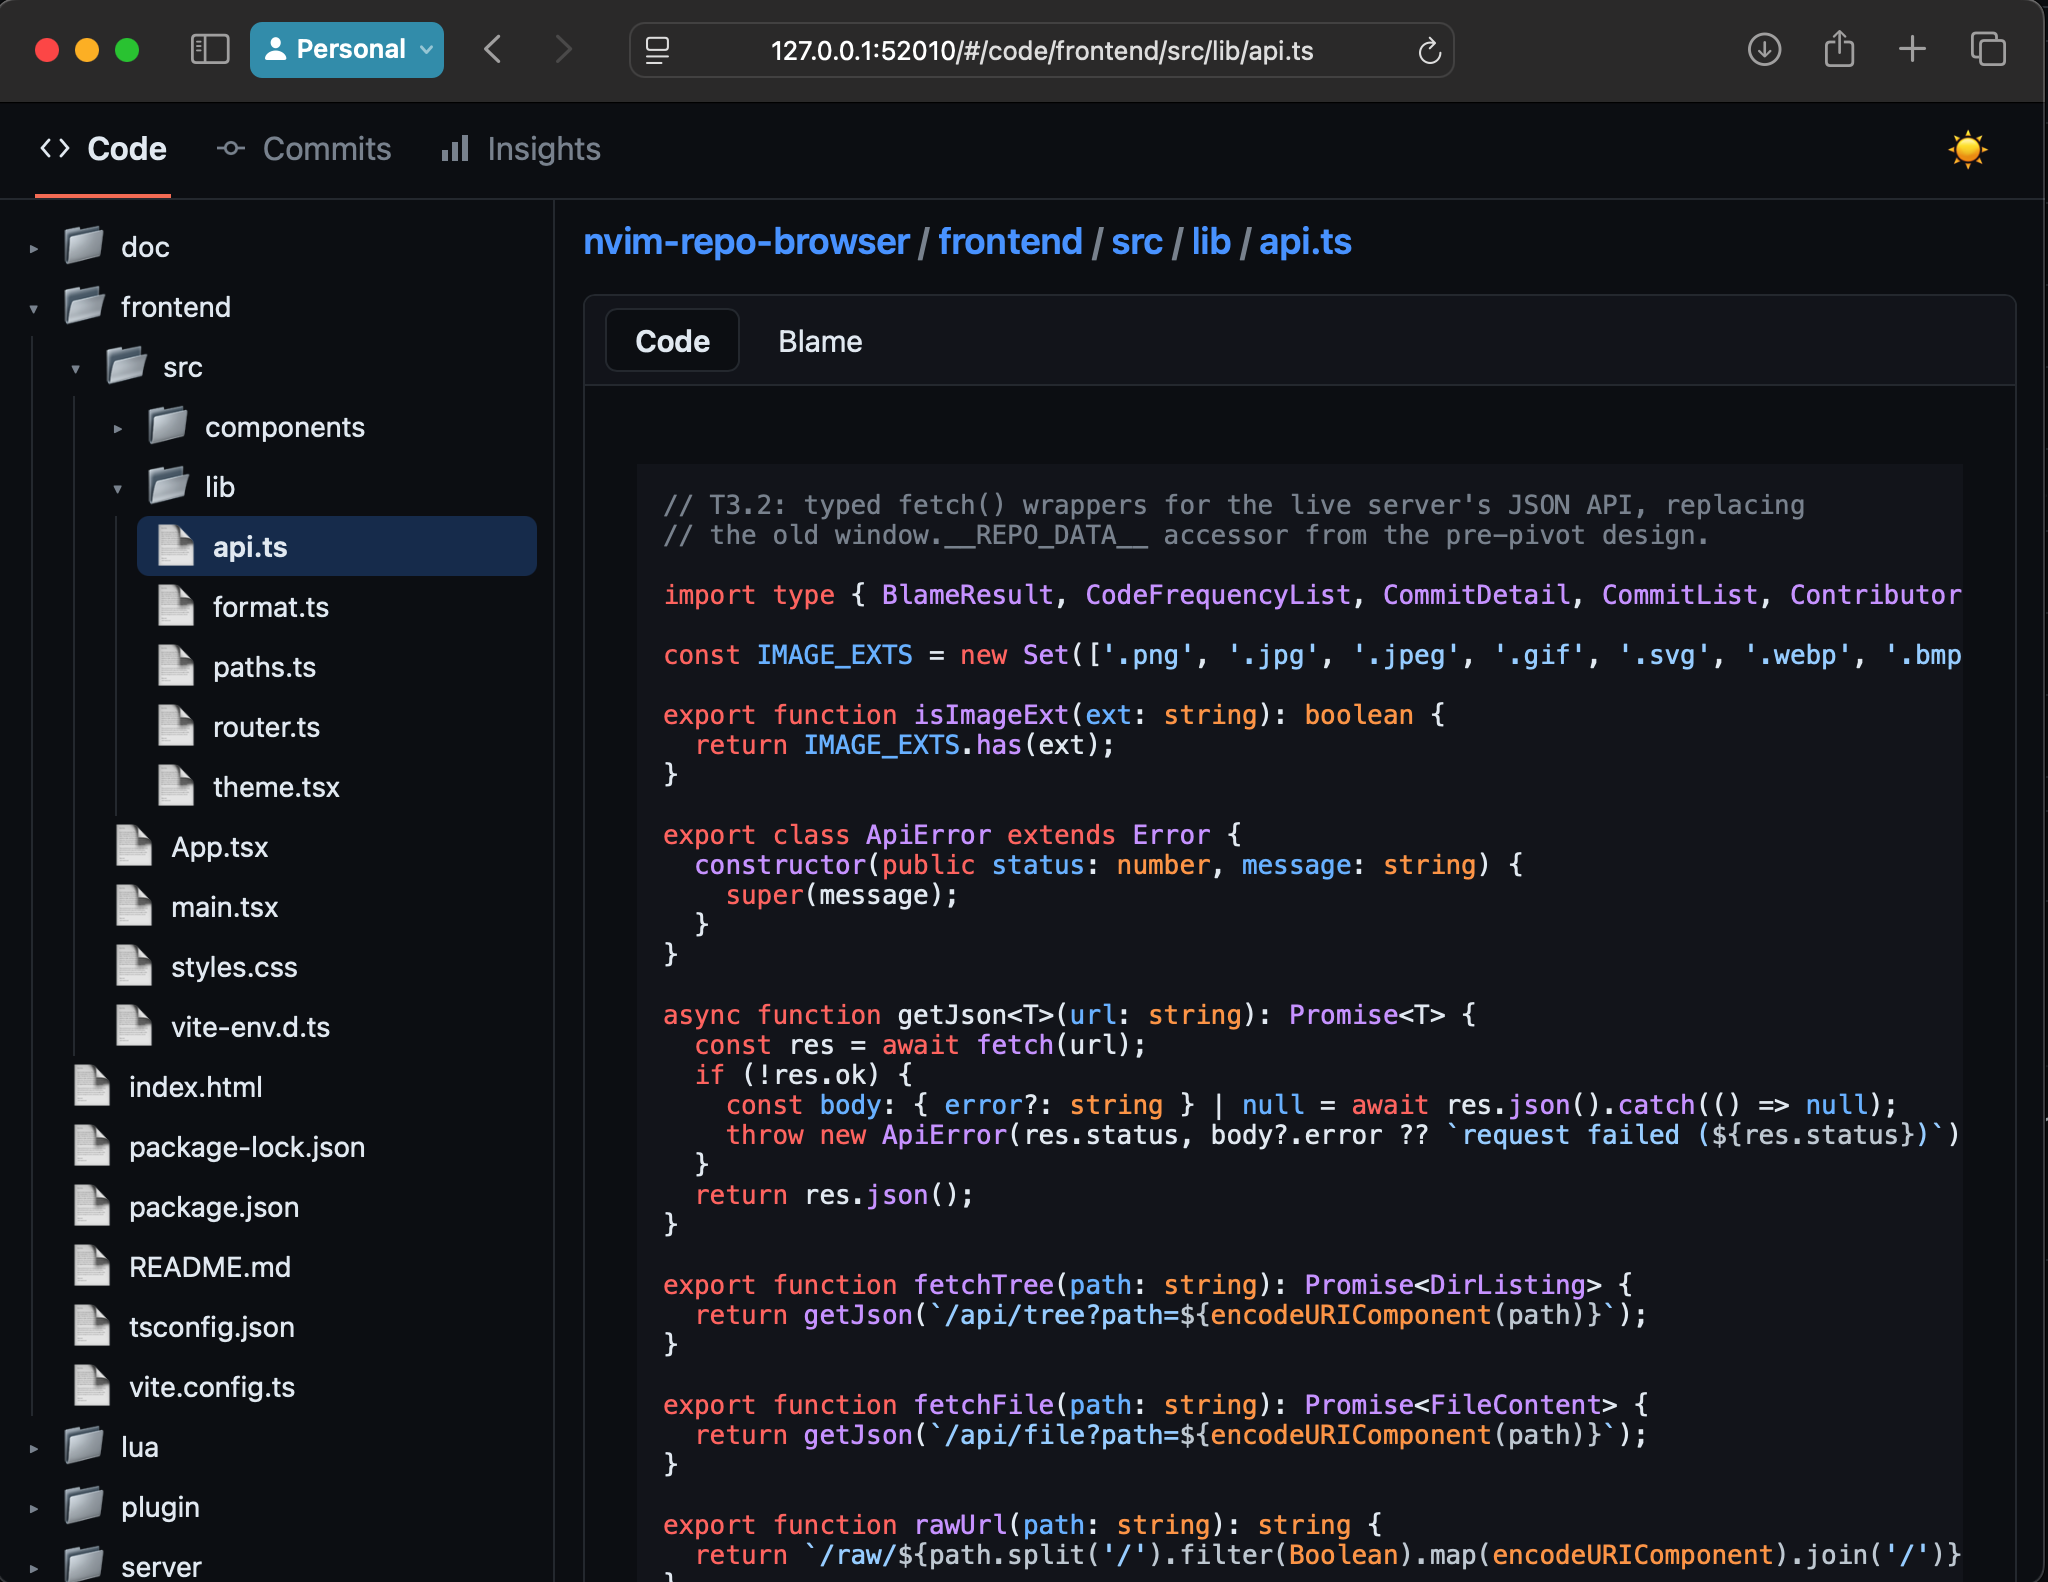
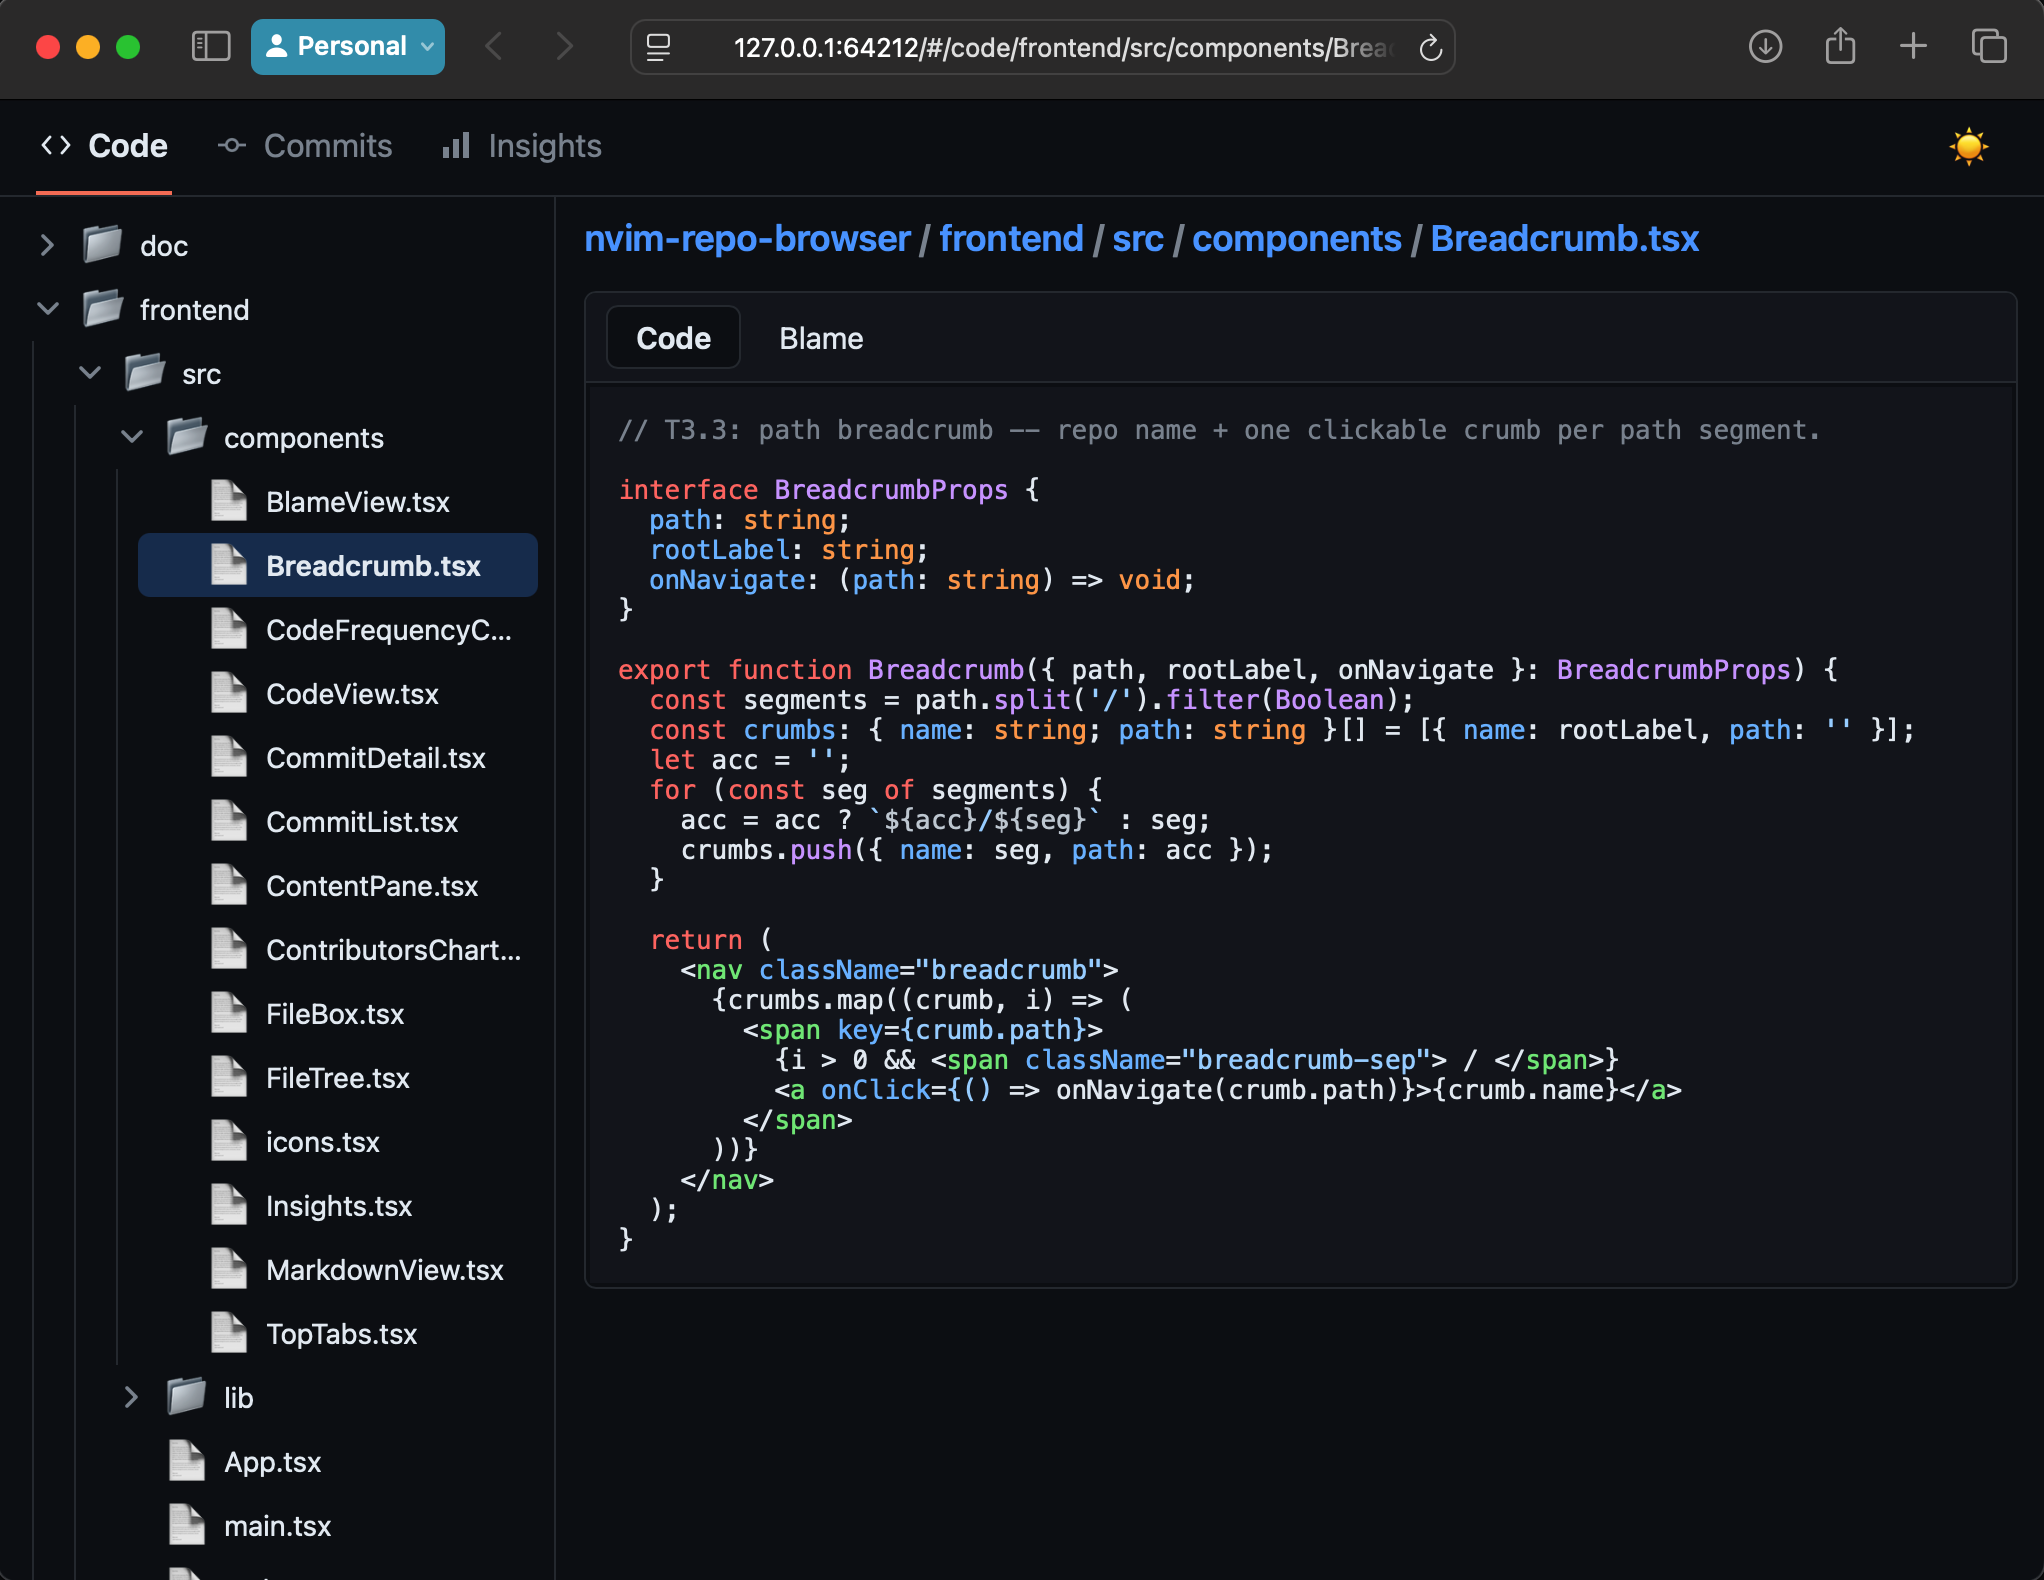
Add Blame screenshot, refresh Code/Reader, release v0.4.1
Blame gained a screenshot section since it was never in the README's
gallery. Code/Reader screenshots refreshed to match today's tree-chevron
and padding fixes; gallery order now matches the tab order (Reader, Code,
Blame, Commits).

diff --git a/README.md b/README.md
@@ -74,4 +74,5 @@ pins a fixed one.
 
 ![Reader](screenshot-reader.png)
 ![Code](screenshot-code.png)
+![Blame](screenshot-blame.png)
 ![Commits](screenshot-commits.png)
